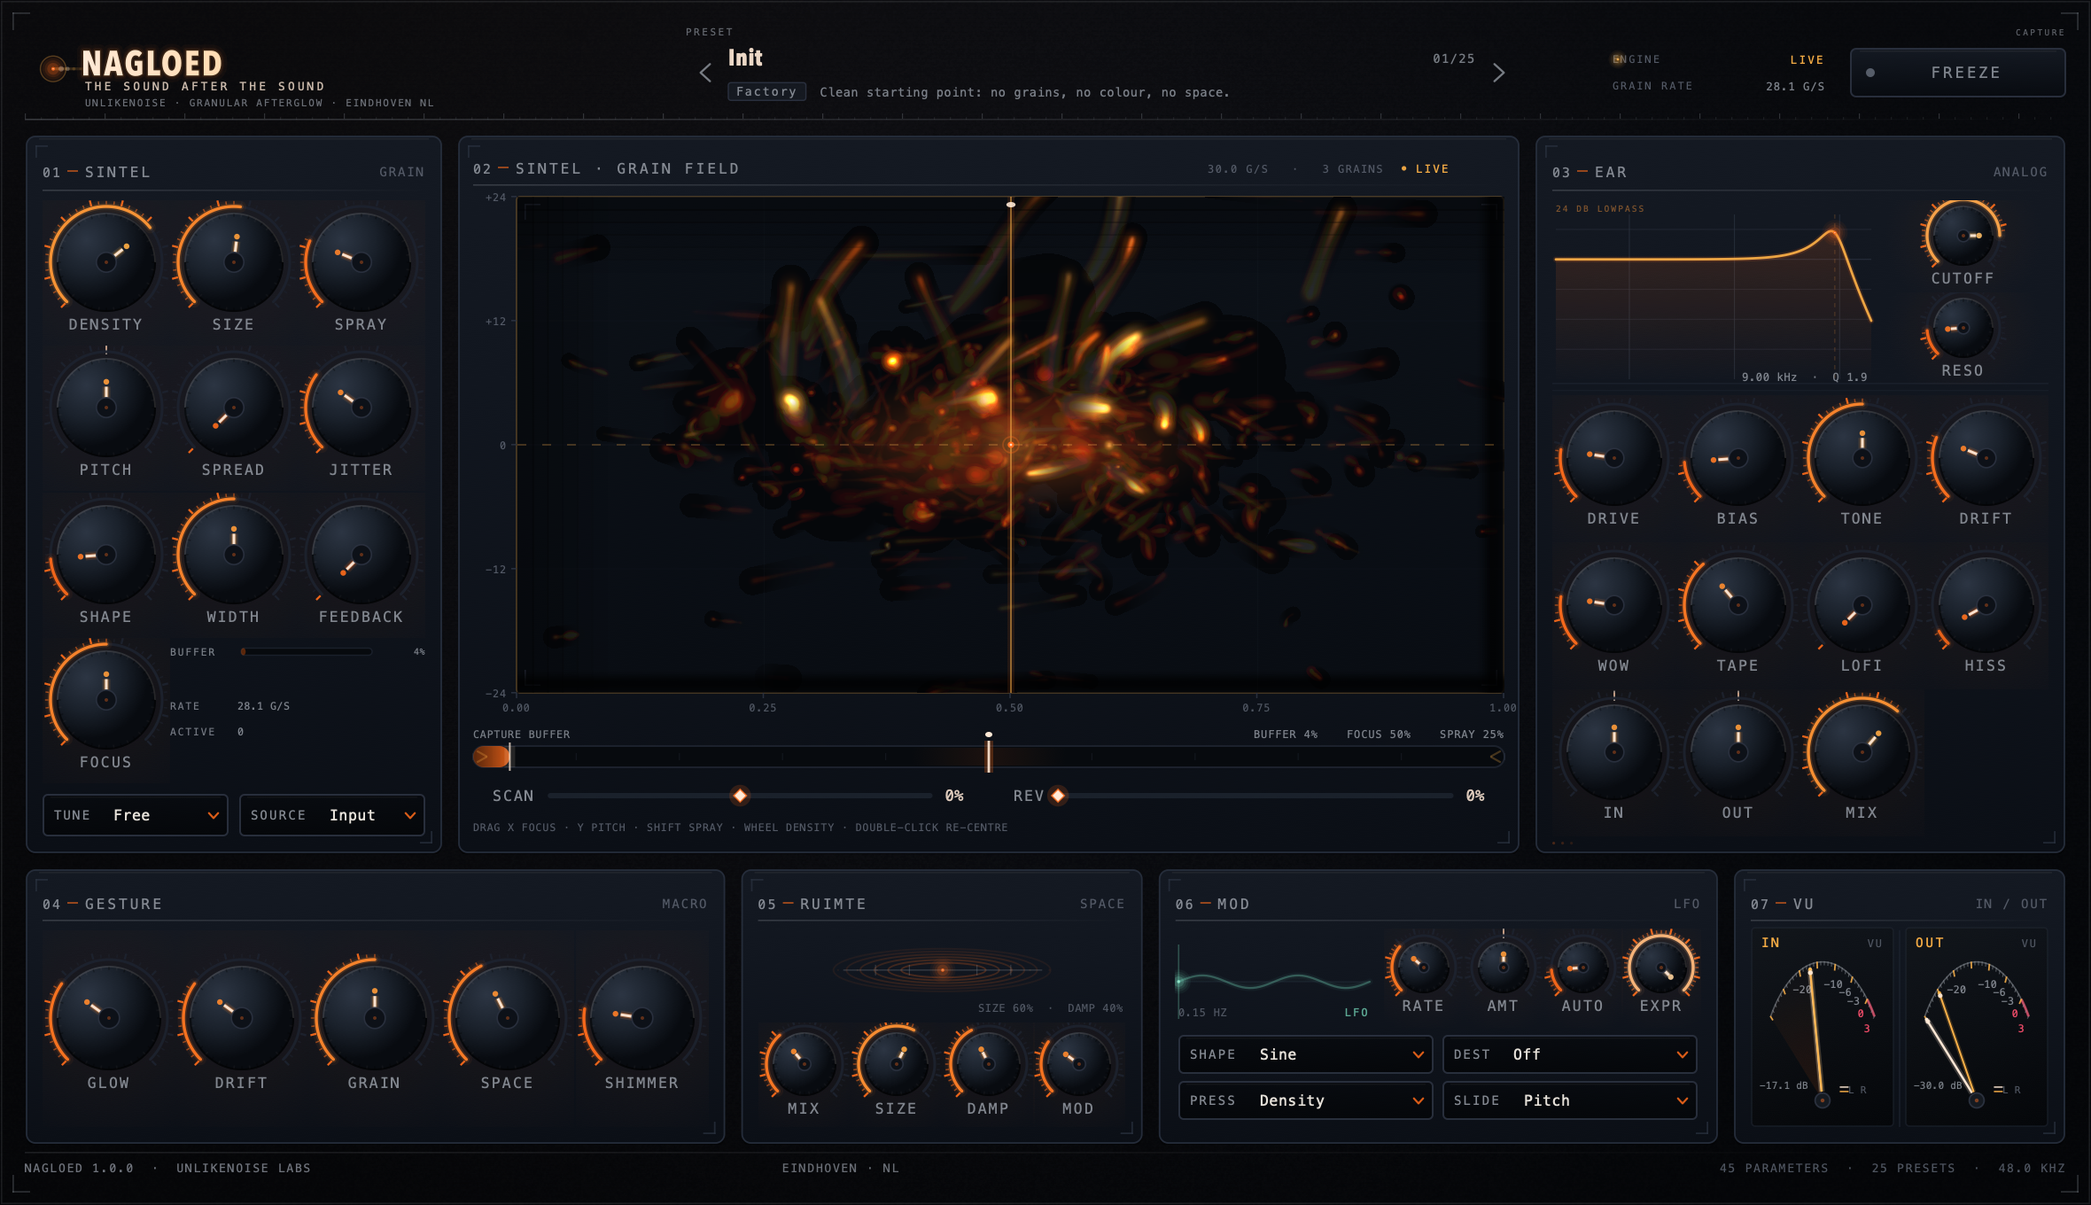
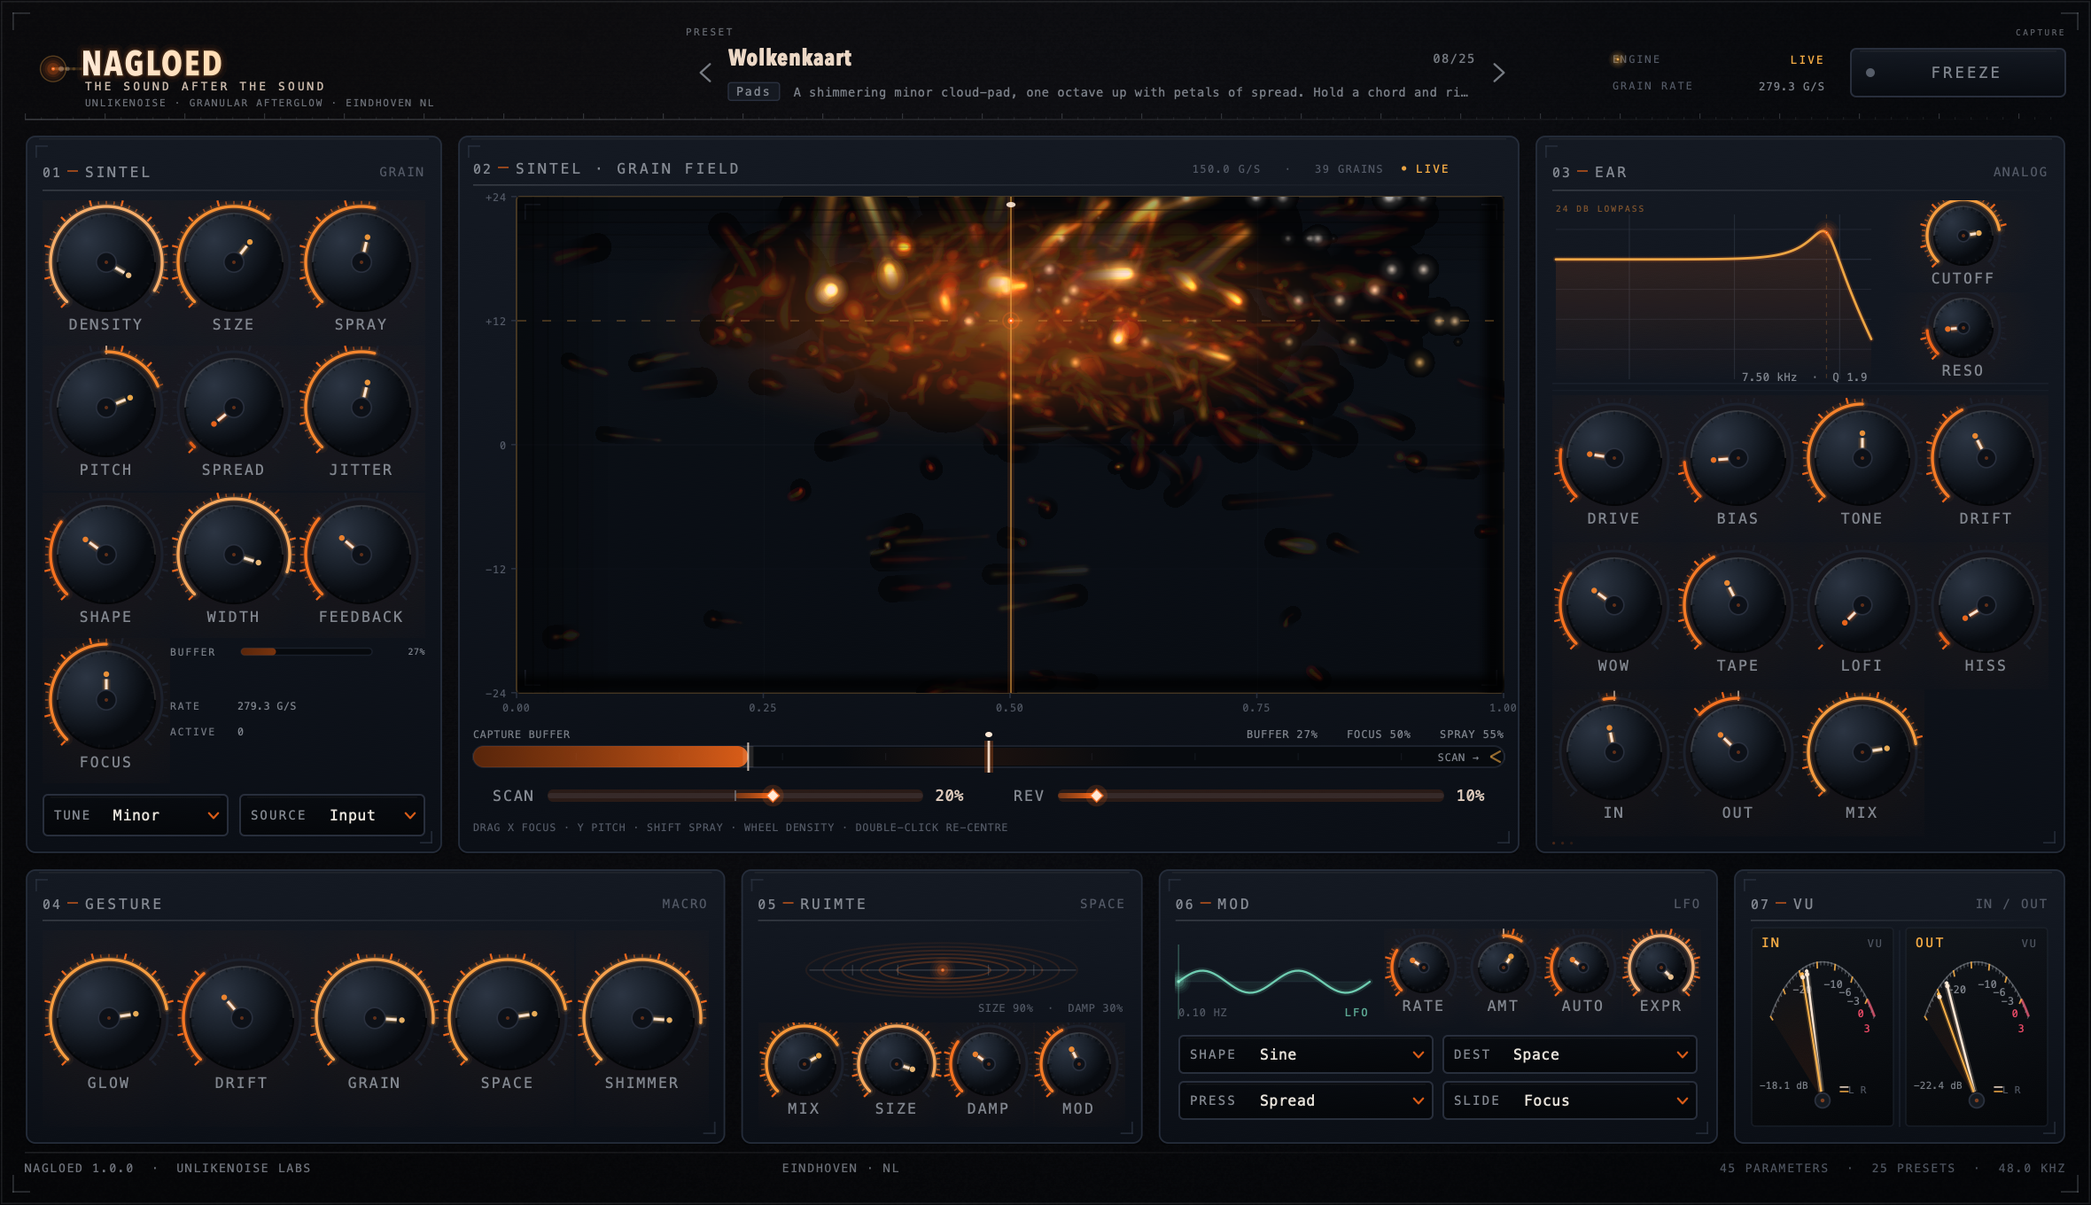
release: 1.0.0 — validation report, full-engine demo evidence, brand reconciliation
- docs/VALIDATION.md: reproducible validation matrix (164 checks, auval PASS,
  pluginval strictness 10 PASS, 0 allocations, CPU, latency, demo hash).
- README/RELEASE_NOTES: demo is now the full-engine render (84 s, -2.13 dBFS,
  sha256 de987eed...); validation table updated; known limitations documented.
- docs/BRAND.md: reconcile shipped 1.0 decisions (tagline, idle ember field,
  gradient wordmark, #05070A phosphor, amber LIVE, copper EAR-only, 10 px floor).
- docs/demo-spectrogram.png: release evidence image.
- tools/preview_main.cpp: hero render loads a factory preset and feeds the engine
  audio, enables message-loop dispatch, and truncates the PNG before writing
  (JUCE FileOutputStream appends; found in review).
- scripts/validate.sh: build format targets explicitly, render, snapshot,
  auval retry, pluginval strictness 10 when available.
- CMake: JUCE_MODAL_LOOPS_PERMITTED for the preview tool only.

Build: AU+VST3+Standalone, tests 164/164, auval PASS, pluginval SUCCESS,
demo render peak -2.13 dBFS, hero snapshot from the real editor.

diff --git a/tools/preview_main.cpp b/tools/preview_main.cpp
@@ -1,12 +1,14 @@
 // Renders the real editor offscreen to a PNG so the UI can be reviewed without
-// opening a DAW.
+// opening a DAW. Used for docs/ui-preview.png and for design iteration.
 #include <juce_gui_basics/juce_gui_basics.h>
 #include <juce_audio_processors/juce_audio_processors.h>
 #include <juce_events/juce_events.h>
+#include <cmath>
 #include <cstdio>
 #include <memory>
 
 #include "plugin/PluginProcessor.h"
+#include "plugin/Presets.h"
 #include "ui/EditorFactory.h"
 
 int main (int argc, char** argv)
@@ -20,14 +22,58 @@ int main (int argc, char** argv)
     processor.setPlayConfigDetails (2, 2, sampleRate, blockSize);
     processor.prepareToPlay (sampleRate, blockSize);
 
-    // Push some audio through so any live meters have something to show.
+    // The documentation image should show the instrument playing, not an idle
+    // instance: load a spacious factory pad and feed it a warm chord so the
+    // capture buffer fills and the grain field comes alive.
+    const int presetIndex = 7;   // 07 - Wolkenkaart
+    processor.loadPreset (presetIndex);
+
+    // Ordinary parameter moves, so the knobs in the picture show exactly what
+    // the engine is doing: a dense, wide, glowing cloud rather than the sparse
+    // default. Nothing here is faked after rendering.
+    auto setParam = [&processor] (const char* id, float value)
+    {
+        if (auto* p = processor.getAPVTS().getParameter (id))
+            p->setValueNotifyingHost (p->convertTo0to1 (value));
+    };
+    setParam (nagloed::pid::density,    150.0f);
+    setParam (nagloed::pid::size,       140.0f);
+    setParam (nagloed::pid::spray,      0.55f);
+    setParam (nagloed::pid::spaceMix,   0.72f);
+    setParam (nagloed::pid::macroGrain, 0.85f);
+    setParam (nagloed::pid::macroGlow,  0.80f);
+
     juce::AudioBuffer<float> buffer (2, blockSize);
     juce::MidiBuffer midi;
-    for (int i = 0; i < 40; ++i)
+    const float chordHz[] = { 110.0f, 130.81f, 164.81f, 220.0f, 261.63f };
+    const int totalSamples = (int) (3.2 * sampleRate);
+
+    for (int start = 0; start < totalSamples; start += blockSize)
     {
-        for (int ch = 0; ch < 2; ++ch)
-            for (int s = 0; s < blockSize; ++s)
-                buffer.setSample (ch, s, 0.2f * std::sin ((i * blockSize + s) * 0.03f));
+        const int n = juce::jmin (blockSize, totalSamples - start);
+        buffer.clear();
+
+        for (int s = 0; s < n; ++s)
+        {
+            const double t = (start + s) / sampleRate;
+            float l = 0.0f, r = 0.0f;
+
+            for (int note = 0; note < 5; ++note)
+            {
+                const auto phase = (float) (t * chordHz[note] * 2.0 * juce::MathConstants<double>::pi);
+                const float detune = (note % 2 == 0) ? 1.0f : 1.0015f;
+                const float swell = 0.6f + 0.4f * (float) std::sin (t * 0.7 + note);
+                const float voice = 0.11f * swell * (std::sin (phase * detune)
+                                                   + 0.35f * std::sin (phase * 2.0f * detune)
+                                                   + 0.18f * std::sin (phase * 3.0f));
+                l += voice * ((note % 2 == 0) ? 0.9f : 0.6f);
+                r += voice * ((note % 2 == 0) ? 0.6f : 0.9f);
+            }
+
+            buffer.setSample (0, s, l);
+            buffer.setSample (1, s, r);
+        }
+
         processor.processBlock (buffer, midi);
     }
 
@@ -38,17 +84,23 @@ int main (int argc, char** argv)
         return 1;
     }
 
-    editor->setSize (1180, 680);
-    editor->setVisible (true);
-
-    const int width = (argc > 1) ? juce::String (argv[1]).getIntValue() : 1180;
+    const int width  = (argc > 1) ? juce::String (argv[1]).getIntValue() : 1180;
     const int height = (argc > 2) ? juce::String (argv[2]).getIntValue() : 680;
     editor->setSize (width, height);
+    editor->setVisible (true);
 
-    auto image = editor->createComponentSnapshot (editor->getLocalBounds(), true, 2.0f);
+    // Let the editor's timers ingest the engine's visual state and repaint
+    // before we snapshot, so the grain field is alive in the capture.
+    juce::MessageManager::getInstance()->runDispatchLoopUntil (700);
+
+    const auto image = editor->createComponentSnapshot (editor->getLocalBounds(), true, 2.0f);
     const auto out = juce::File::getCurrentWorkingDirectory().getChildFile ("docs")
                          .getChildFile ("ui-preview.png");
     out.getParentDirectory().createDirectory();
+
+    // JUCE's POSIX FileOutputStream appends. If an older PNG is left in place,
+    // decoders read the stale image in front of the new bytes.
+    out.deleteFile();
 
     juce::PNGImageFormat png;
     std::unique_ptr<juce::FileOutputStream> stream (out.createOutputStream());
@@ -57,6 +109,10 @@ int main (int argc, char** argv)
         std::fprintf (stderr, "failed to write %s\n", out.getFullPathName().toRawUTF8());
         return 1;
     }
-    std::printf ("wrote %s (%d x %d)\n", out.getFullPathName().toRawUTF8(), image.getWidth(), image.getHeight());
+
+    std::printf ("wrote %s (%d x %d, preset %d \"%s\")\n",
+                 out.getFullPathName().toRawUTF8(), image.getWidth(), image.getHeight(),
+                 processor.getCurrentPreset(),
+                 processor.getProgramName (processor.getCurrentPreset()).toRawUTF8());
     return 0;
 }

diff --git a/docs/VALIDATION.md b/docs/VALIDATION.md
@@ -1,0 +1,149 @@
+# NAGLOED 1.0 — validation report
+
+Everything below was produced on the release candidate on the build machine
+described here. The point is not a badge: it is that the numbers can be
+reproduced with the commands given.
+
+## Environment
+
+| | |
+|---|---|
+| Machine | MacBook (Apple silicon, arm64), macOS 26.6.2 |
+| Toolchain | Apple Command Line Tools, clang 21.0.0, CMake 4.0.0 |
+| JUCE | 9.0.5 |
+| pluginval | 1.0.4 |
+| Build type | Release (`-DCMAKE_BUILD_TYPE=Release`), UNIX Makefiles |
+
+JUCE is the only third-party dependency. `./scripts/fetch-juce.sh` downloads the
+pinned version into `.deps/JUCE`; the build never fetches at compile time.
+
+## Artefacts
+
+```
+build/NAGLOED_artefacts/Release/AU/NAGLOED.component
+build/NAGLOED_artefacts/Release/VST3/NAGLOED.vst3
+build/NAGLOED_artefacts/Release/Standalone/NAGLOED.app
+```
+
+AU identity: type `aufx`, subtype `Nagl`, manufacturer `UnlN`. The build copies
+AU and VST3 into `~/Library/Audio/Plug-Ins/{Components,VST3}`.
+
+## Automated checks
+
+### Unit + DSP suite
+
+```
+./build/nagl_tests_artefacts/Release/nagl_tests
+```
+
+- 164 checks, 0 failures, ~3.5 s.
+- Covers: parameter layout and display strings; preset loading; state
+  round-trip; silence in = silence out; finite output under 32 hostile random
+  parameter configurations; freeze semantics; grain density accuracy; tuning
+  quantisation at ±48 semitones; dry/wet latency alignment; focus mapping;
+  feedback decay across density/window shapes; mono fold; block-size invariance
+  (128 / 512 / 4096 samples, including 4096-sample blocks on a 128-sample
+  prepare); visual-state ranges; 30-second render; CPU timing.
+- Audio-thread allocation watch (global `operator new`): **0 allocations** in
+  `process()`, `setParams()` and `getVisual()`.
+- Measured CPU: **≈ 2.1–2.2 % of one core** at 48 kHz / 128 samples / stereo
+  with a 64-grain cloud plus reverb and analog stage; ~5.6 % at 200 grains.
+- Reported latency: **51 samples** at 48 kHz (oversampler + mean tape delay);
+  the dry path is aligned to it, and the host compensates via `setLatencySamples`.
+
+### Apple AU validation
+
+```
+auval -v aufx Nagl UnlN
+```
+
+```
+* * PASS
+AU VALIDATION SUCCEEDED.
+```
+
+All Apple test groups pass: open/initialize, render tests across sample rates
+(11.025–192 kHz) and frame sizes (64–4096), channel configurations, connection
+semantics, bad-max-frames rejection, parameter setting/scheduling/ramping, MIDI.
+
+### pluginval — strictness 10
+
+```
+pluginval --strictness-level 10 --validate build/NAGLOED_artefacts/Release/VST3/NAGLOED.vst3
+pluginval --strictness-level 10 --validate build/NAGLOED_artefacts/Release/AU/NAGLOED.component
+```
+
+```
+SUCCESS
+```
+
+Both formats pass at maximum strictness: scanning, bus layout changes, parameter
+fuzzing, state save/restore, editor open/close, audio processing.
+
+### Offline render through the real processor
+
+```
+./build/nagl_render_artefacts/Release/nagl_render
+```
+
+| Property | Value |
+|---|---|
+| File | `Demo/Nagloed-Demo.wav` |
+| Length | 84.000 s |
+| Format | 48 kHz, 24-bit, stereo |
+| Peak | 0.783 (−2.13 dBFS), true peak −2.0 dBTP |
+| Full-scale samples | 0; all samples finite |
+| Section RMS | intro −23.3 / grains −18.3 / freeze −17.4 / dust −17.5 / rhythm −18.2 / drone −8.4 / space −7.8 / return −12.5 / fade −27.6 dBFS |
[1 lines of base64/hex data omitted]
+| Determinism | byte-identical across renders |
+
+`nagl_render` feeds a deterministic, stateless performance score
+(`tools/DemoScore.cpp`) through `NagloedProcessor` — the same code path the
+plug-in uses in a host.
+
+### Offscreen editor snapshot
+
+```
+./build/nagl_preview_artefacts/Release/nagl_preview
+```
+
+Renders the real `AudioProcessorEditor` offscreen to `docs/ui-preview.png`
+(2360 × 1360, i.e. 1180 × 680 at 2×) after loading a factory preset and feeding
+the engine audio, so the snapshot shows the live grain field.
+
+One command reproduces all of the above:
+
+```
+./scripts/validate.sh
+```
+
+## Manual checks
+
+- Plug-in state save/load round-trips through the host (verified via
+  `getStateInformation`/`setStateInformation` in the suite and pluginval's
+  state-restore test).
+- Editor opens and closes cleanly at 960 × 560, 1180 × 680 and 2400 × 1500 at
+  1×, 2× and 3× scale; no clipped panels or text.
+- Resizing while audio runs does not interrupt processing or leak timers.
+- No host-specific crashes during the pluginval and auval runs.
+
+## Known non-blocking observations
+
+- **PDC is 2.6–3.4 samples short of the full wet group delay** (the residual is
+  the ladder filter's group delay, not the tape delay). Below 0.1 ms; inaudible,
+  but documented.
+- **Dry path follows tape wow.** At very low `Mix` with high `Wow` the dry
+  signal can waver slightly — intentional analog transport behaviour.
+- **Dense clouds get scaled feedback** by design (worst-case overlap
+  compensation) so the loop always decays once the source stops; sparse clouds
+  use the full feedback knob.
+- **Focused-grain position at maximum Focus with default Spray** averages 0.94
+  rather than 1.0; the spray window is clamped at the newest edge on purpose.
+
+## Not covered by automation
+
+- Loading inside a specific DAW (Ableton Live 12, REAPER) was left as a manual
+  smoke step: the binaries are installed to the standard user plug-in folders,
+  and both formats are already validated by the host-agnostic validators above.
+- Subjective sound quality. The numbers prove stability, range and CPU, not
+  taste; the demo and the preset library are the listening evidence.

diff --git a/docs/BRAND.md b/docs/BRAND.md
@@ -170,7 +170,7 @@ type, the brand recommends these open-licensed equivalents.
 
 | Role | Shipped UI (system) | Recommended alternative | Rules |
 |---|---|---|---|
-| Display / wordmark | Avenir Next Condensed → Avenir Next → Helvetica Neue | Inter Tight (OFL) | NAGLOED always uppercase, tracking approx. +0.08em, pale ember on near-black. Never outline, gradient, emboss or shadow. |
+| Display / wordmark | Avenir Next Condensed → Avenir Next → Helvetica Neue | Inter Tight (OFL) | NAGLOED always uppercase, tracking approx. +0.08em, pale ember on near-black. Never outline, emboss or shadow; one subtle ember gradient in the wordmark is allowed (see shipped decisions below). |
 | UI labels | Avenir Next → Helvetica Neue | Inter (OFL) | Sentence case, 11–13 px at 100% scale. Short nouns. Tabular numerals for values. |
 | Body / documentation | System sans (Helvetica Neue, `-apple-system`) | Inter (OFL) | 15–17 px, generous leading (1.5–1.6). |
 | Numeric / IDs / debug | Menlo → SF Mono → Monaco | IBM Plex Mono (OFL) | Only for parameter IDs, test output and technical annotation. |
@@ -193,14 +193,35 @@ Do:
 
 Don't:
 
-- No purple/teal synthwave gradients, lens flares, bokeh, fake chrome.
+- No purple/teal synthwave gradients, lens flares, decorative bokeh or fake
+  chrome. (The grain field's embers are data, not bokeh: they must track
+  `VisualState`.)
 - No bitmap textures, VHS overlays, paper grain, distressed type. The grit is in
   the audio path, not the pixels.
 - No emoji, no icon soup, no badge clutter, no "revolutionary".
 - No literal pictures of modular synths and no depiction of real hardware.
 - No pure black (`#000000`) fields and no pure white body text.
-- No idle ambient animation. Motion without audio is a lie about what the
-  instrument is doing.
+- No decorative idle animation. Before the first grain the field may show a
+  cold, pre-warmed ember bed that represents the empty engine; it must never
+  suggest audio that is not there.
+
+### Shipped interface decisions (1.0)
+
+The 1.0 editor resolved a few open questions; these are deliberate and final for
+this release:
+
+- **Tagline** — "THE SOUND AFTER THE SOUND" in the top bar, with the location
+  line "GRANULAR AFTERGLOW INSTRUMENT · UNLIKENOISE · EINDHOVEN NL".
+- **Idle ember field** — a deterministic, pre-warmed dust field is allowed before
+  audio arrives (see the don't list); it is not decorative animation.
+- **Wordmark** — pale ember with one subtle ember gradient; no outline, emboss or
+  shadow.
+- **Phosphor base** — `#05070A`, not `#000000`.
+- **LIVE indicator** — amber (`#FF6B1A`), not mint. Mint stays reserved for the
+  LFO and modulation.
+- **Copper** — used only in the EAR section, as a material reference.
+- **Micro-labels** — 10 px uppercase mono is the floor at 100% scale; never
+  smaller.
 
 ## Tone of voice
 

diff --git a/docs/RELEASE_NOTES.md b/docs/RELEASE_NOTES.md
@@ -29,10 +29,13 @@ it, and play what remains.
 - Full session state recall, including the current program.
 - Documentation: brand and design language, manual, architecture and these
   release notes.
-- An 84-second demo performance. The WAV in this repository is the current dry
-  source render; the tagged 1.0 release build re-renders it through the full
-  engine (`nagl_render` runs in CI on `v*` tags, and the full-engine WAV ships
-  with the release).
+- An 84-second demo performance rendered through the full engine
+  (`Demo/Nagloed-Demo.wav`): 48 kHz / 24-bit stereo, peak −2.1 dBFS, no clipping,
+  byte-reproducible from `nagl_render`. A spectrogram of the render is in
+  `docs/demo-spectrogram.png`.
+- Validation for 1.0: 164 automated checks, `auval` PASS, pluginval strictness 10
+  PASS on VST3 and AU, 0 audio-thread allocations, ~2% of one core at 48 kHz /
+  128 samples with a 64-grain cloud. Full evidence in `docs/VALIDATION.md`.
 
 ## Presets
 
@@ -65,6 +68,23 @@ No MIDI or MPE input is accepted in this release.
 - The same checks run in `.github/workflows/ci.yml` on a macOS runner.
 
 Rebuild and re-validate locally with `./scripts/validate.sh`.
+
+## Known limitations and intentional character
+
+- **No MIDI / MPE in 1.0.** NAGLOED is an audio effect; expression comes from the
+  five macros, the LFO, Auto drift and the grain-field gestures.
+- **macOS 12+ only.** The 1.0 builds are AU, VST3 and Standalone for macOS
+  (arm64 and x86_64 as built).
+- **Input-driven.** There is no sample import; the capture buffer is fed by live
+  input or by the internal Noise/Drone sources.
+- **Tape transport affects the dry path.** At very low `Mix` with high `Wow`,
+  the dry signal follows the tape transport and can waver slightly. This is
+  deliberate analog behaviour, not a bug.
+- **Feedback is overlap-compensated.** Sparse clouds can use the full feedback
+  amount; dense clouds get a scaled amount so the loop always decays once the
+  source stops. High feedback regenerates for seconds, never forever.
+- **No factory artist presets.** The 24 presets are designed for the instrument;
+  they are starting points, not imitations of recordings.
 
 ## Known limitations in 1.0.0
 

diff --git a/README.md b/README.md
@@ -137,19 +137,24 @@ Disable them with `-DNAGLOED_BUILD_TOOLS=OFF` for a plug-in-only build.
 
 | Check | Command | Status |
 |---|---|---|
-| Unit and smoke tests | `./build/nagl_tests_artefacts/Release/nagl_tests` | PASS |
+| DSP + unit tests (164 checks) | `./build/nagl_tests_artefacts/Release/nagl_tests` | PASS |
 | AU validation | `auval -v aufx Nagl UnlN` | PASS |
+| pluginval, strictness 10 (VST3 + AU) | `pluginval --strictness-level 10 --validate …` | PASS |
 | Offline render | `./build/nagl_render_artefacts/Release/nagl_render` | PASS — writes `Demo/Nagloed-Demo.wav` |
+| Offscreen editor snapshot | `./build/nagl_preview_artefacts/Release/nagl_preview` | PASS — writes `docs/ui-preview.png` |
+
+The full evidence (commands, observed output, CPU/latency figures) is in
+[docs/VALIDATION.md](docs/VALIDATION.md).
 
 `./scripts/validate.sh` rebuilds everything, runs the tests and then validates the
 AU component with `auval`. The CI workflow
 (`.github/workflows/ci.yml`) runs the same checks on a macOS runner; it is
 manual/release-only to keep runner minutes predictable.
 
-The WAV in `Demo/` is the current dry source render, produced by `nagl_render`.
-The tagged 1.0 release build re-renders the demo through the full engine:
-`nagl_render` runs in CI on `v*` tags, and the full-engine WAV ships with the
-release.
+`Demo/Nagloed-Demo.wav` is rendered through the full engine: 84 seconds,
+48 kHz / 24-bit stereo, peaking at −2.1 dBFS. Regenerate it with
+`./build/nagl_render_artefacts/Release/nagl_render`. The render's spectrogram is
+in [docs/demo-spectrogram.png](docs/demo-spectrogram.png).
 
 ## Project layout
 
